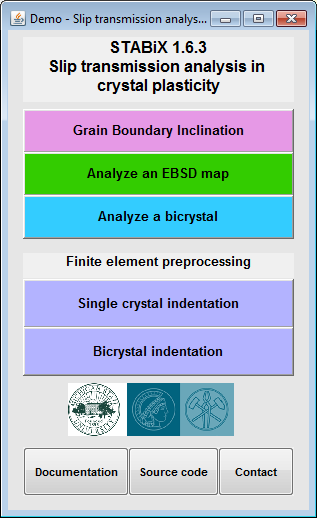
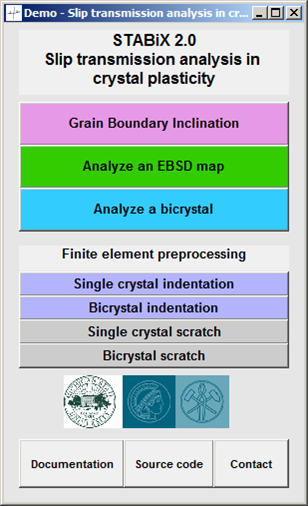
updated doc

diff --git a/doc/preCPFE_gui.rst b/doc/preCPFE_gui.rst
@@ -121,8 +121,8 @@ Convention for the bicrystal mesh
    
 .. _scratch_test:
 
-Scratch test
---------------
+Scratch test on SX and BX
+--------------------------
 
 CPFE simulation of scratch test in a single crystal or close to a grain boundary is implemented into this GUI.
 Scratch length and scratch direction have to be set by the user.
@@ -218,6 +218,10 @@ Mesh definition
 * *Abaqus*
     - The mesh is defined by default by linear hexahedral eightnode elements (C3D8).
     - It is possible to set quadratic elements (e.g.: C3D20), by changing in the python code the value of the "linear_elements" variable from 1 to 0.
+
+.. note::
+    `Note that DAMASK incorporates a limited number of different types of element geometries. <http://damask.mpie.de/Documentation/ElementType>`_
+    For a detailed information about the characteristics of each element refer to MSC.Marc and Abaqus user's manuals.
 
 Python setup
 -------------
